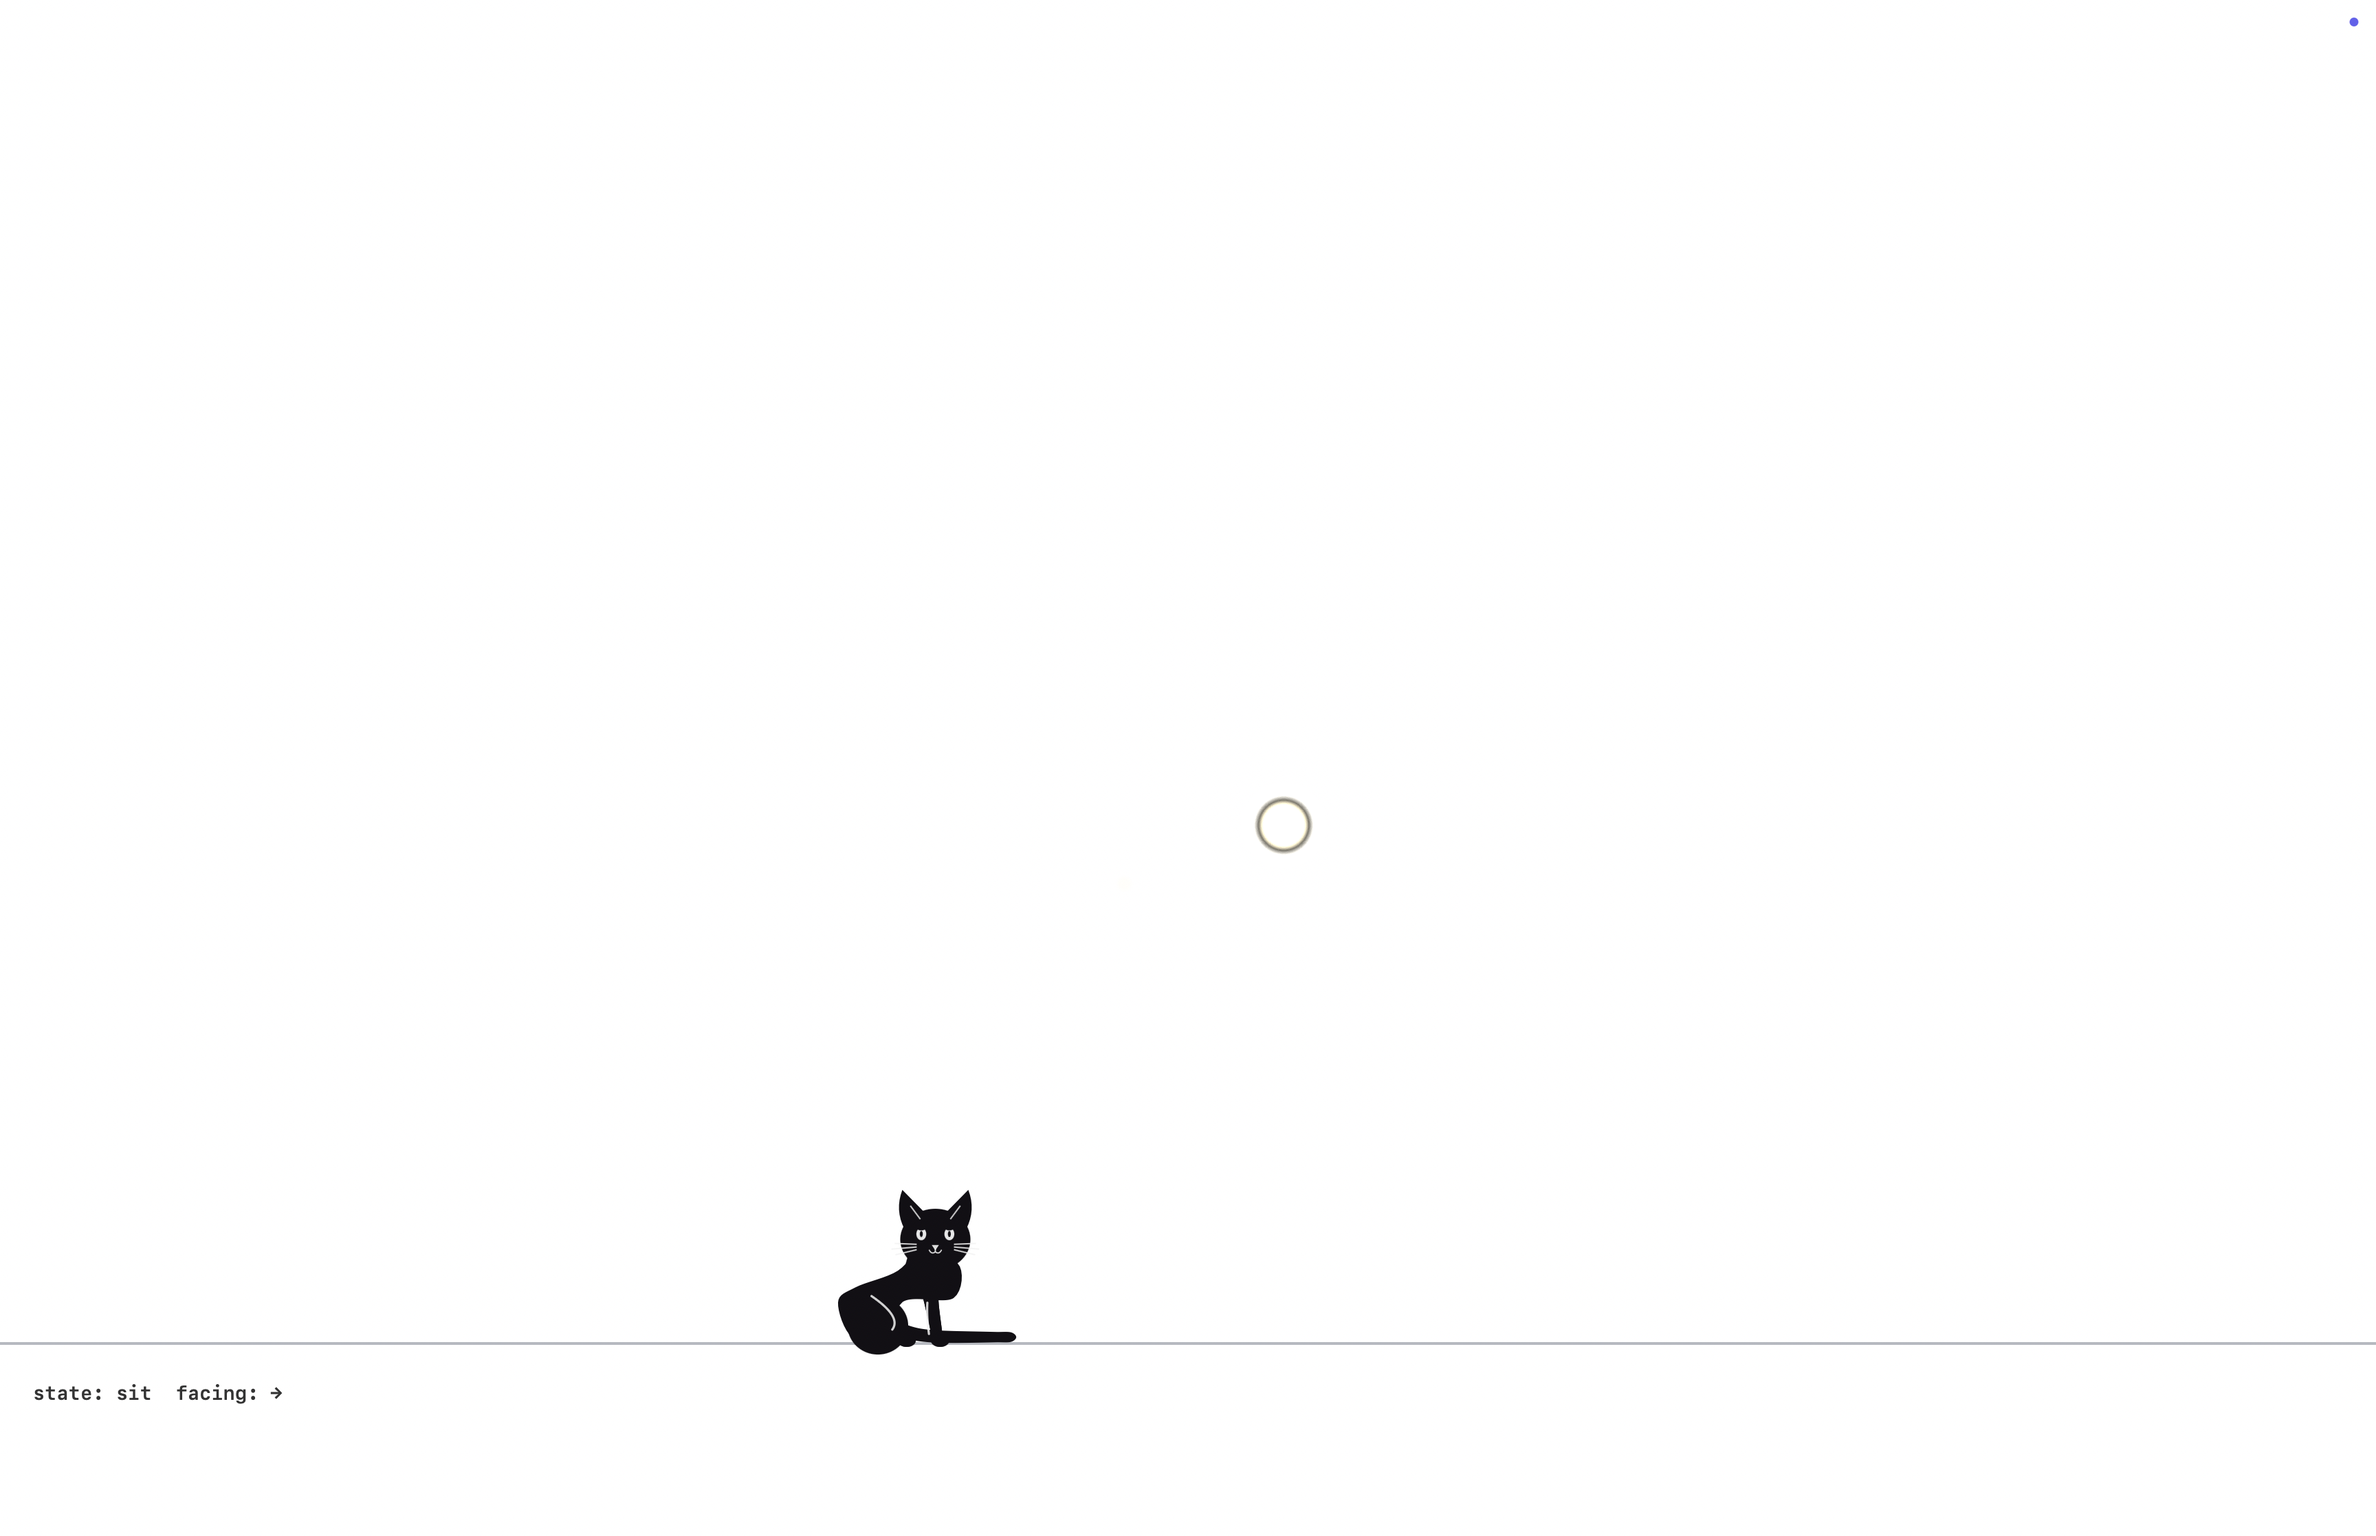
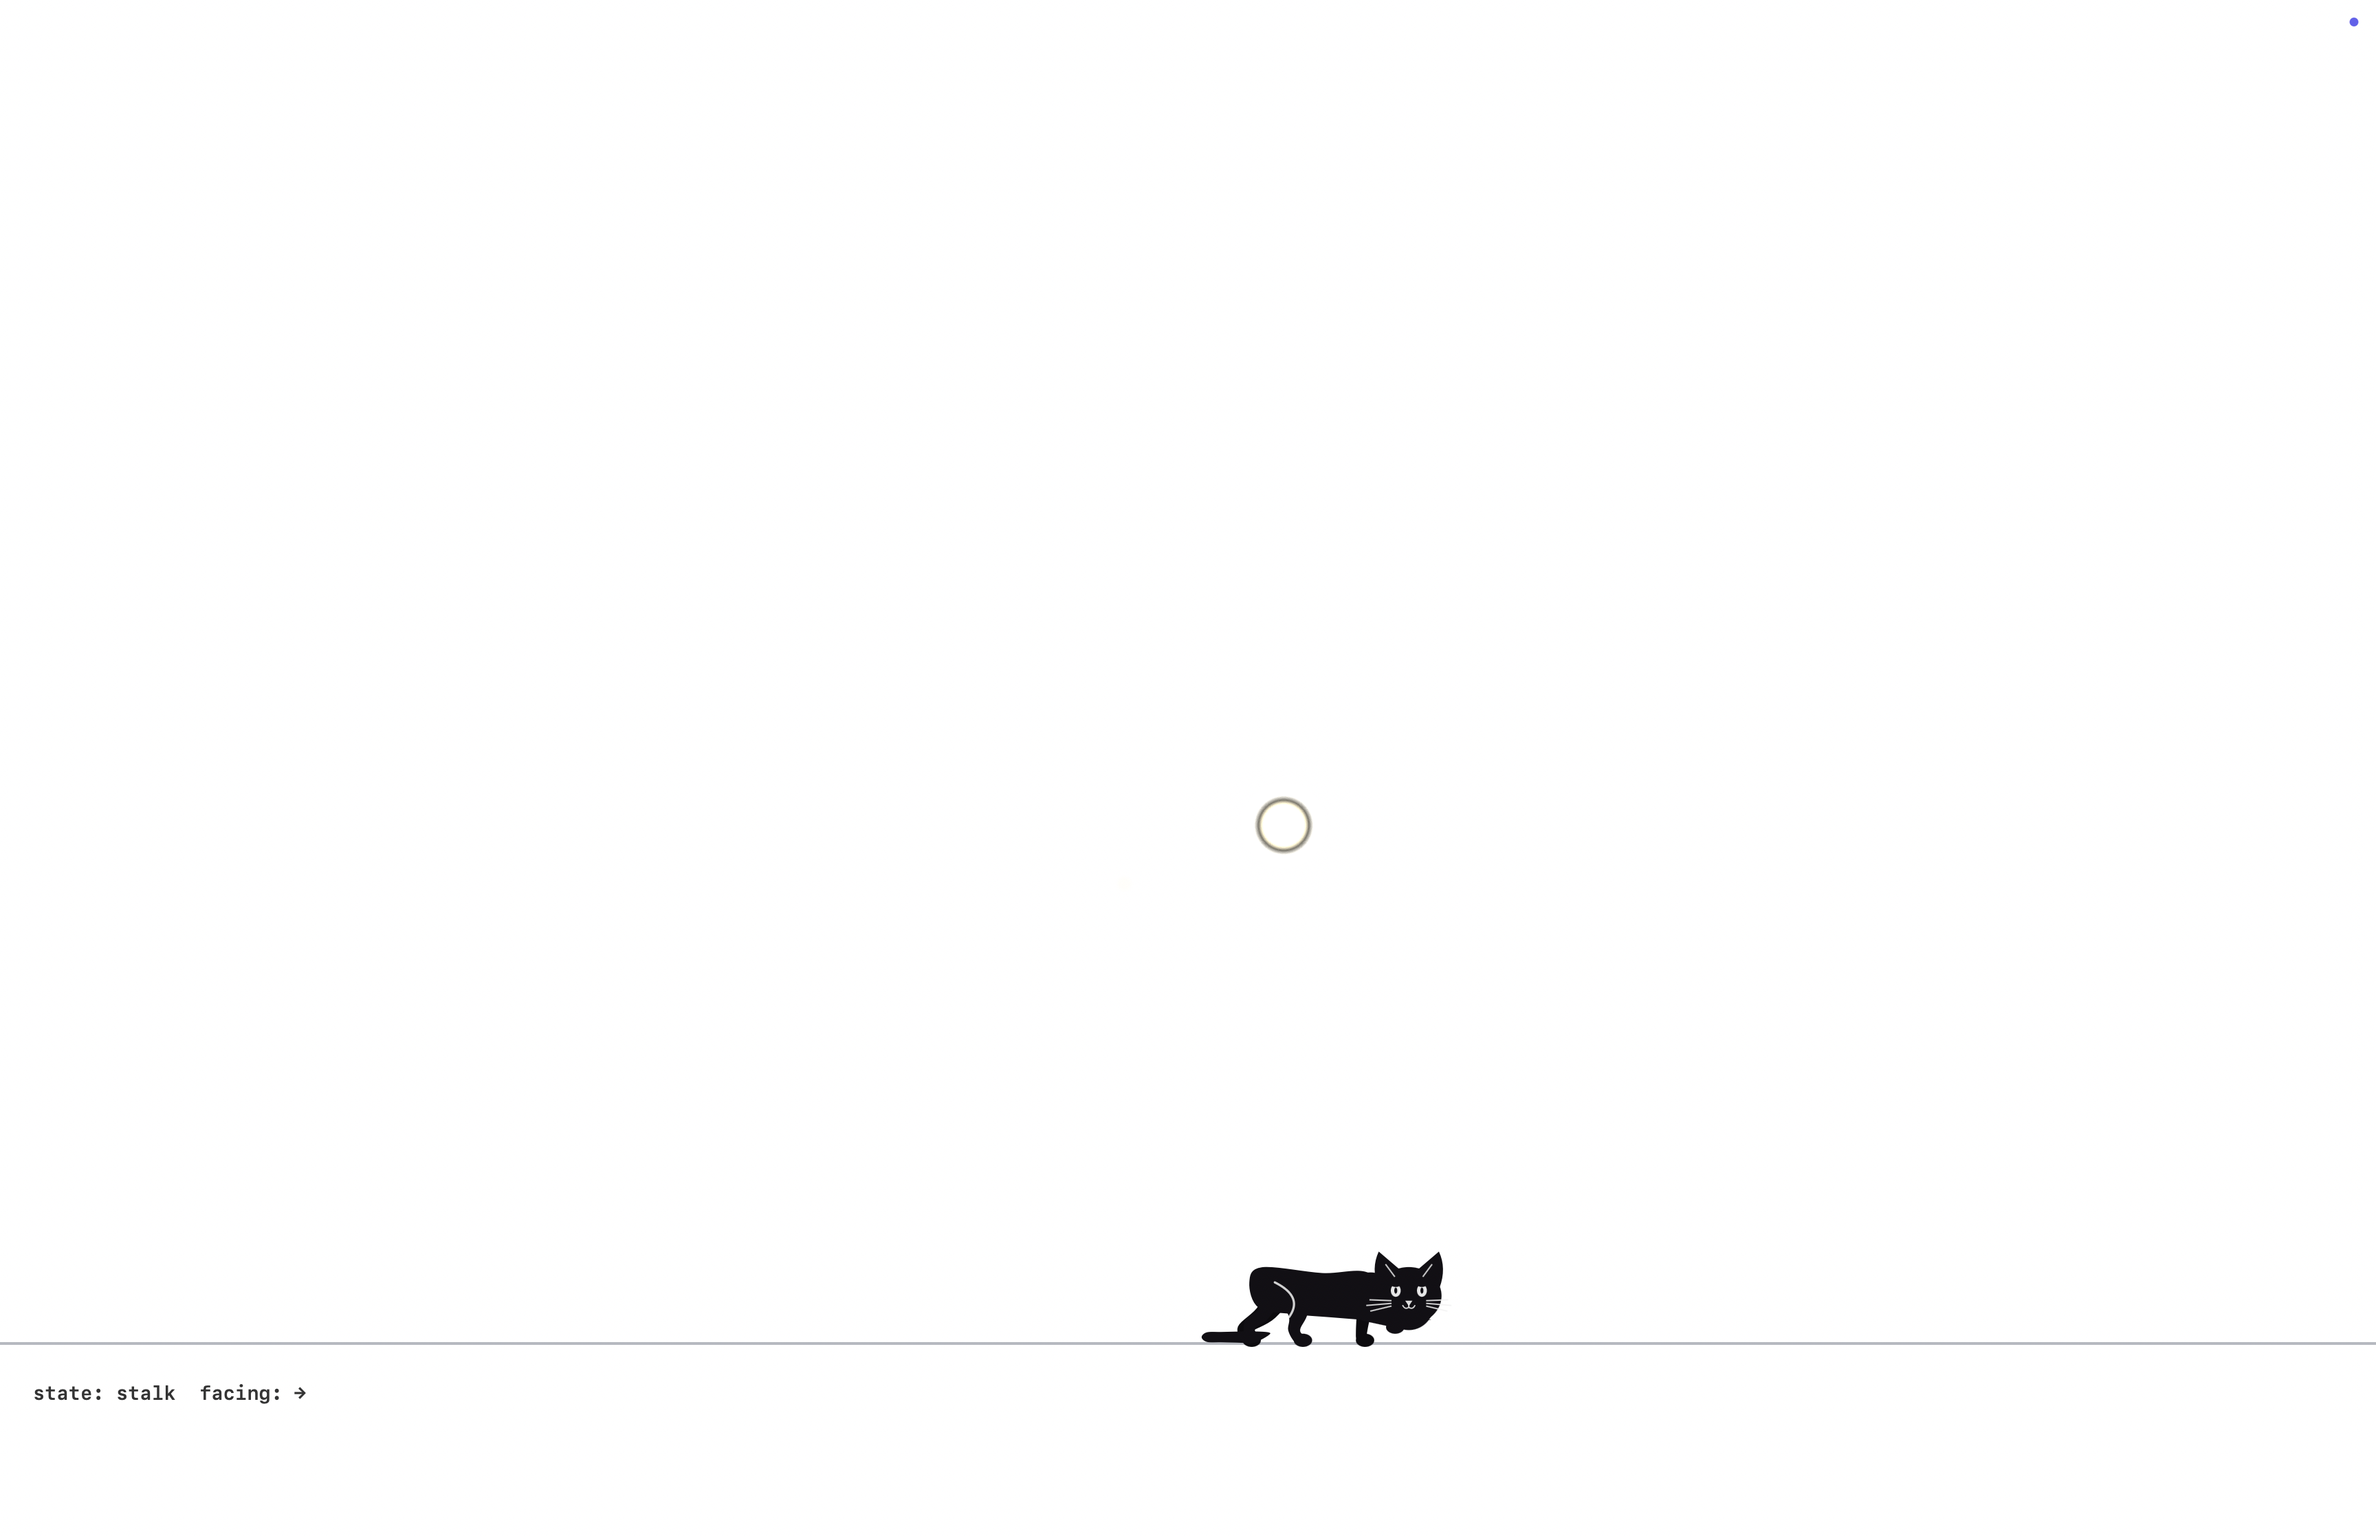
KiddyCat silhouette: reference head:body ratio, taller sit, softer ears
A/B-driven: skull reduced to reference ratio, body lengthened, sit
composition taller (higher chest and head), ears wider-based and shorter.
Verified across all three reference poses side-by-side: walk, sit, loaf.

Changed region(s): [[0.5, 0.803, 0.625, 0.8957], [0.3438, 0.7722, 0.4375, 0.8957], [0.0625, 0.8957, 0.125, 0.9266]]

diff --git a/Sources/kiddyproof/KiddyCat.swift b/Sources/kiddyproof/KiddyCat.swift
@@ -329,8 +329,8 @@ final class KiddyCat {
             // rounded behind, head high (groom: head dipped to the chest).
             p.sitFold = 1
             p.rumpHeight = 0.50
-            p.shoulderHeight = 1.0
-            p.headHeight = state == .groom ? 0.92 : 1.3
+            p.shoulderHeight = 1.06
+            p.headHeight = state == .groom ? 0.92 : 1.38
             p.headForward = state == .groom ? 0.42 : 0.5
             p.earPerk = state == .groom ? 0.45 : 0.8
         case .stretch:
@@ -545,7 +545,7 @@ final class KiddyCat {
         // Anchor geometry.
         let stretch = pose.bodyStretch
         let shoulderX: CGFloat = 0.52 + stretch * 0.25 - pose.sitFold * 0.3
-        let rumpX: CGFloat = -(0.70 + stretch * 0.2 - pose.sitFold * 0.10)
+        let rumpX: CGFloat = -(0.74 + stretch * 0.2 - pose.sitFold * 0.10)
         let shoulderY = pose.shoulderHeight
         let rumpY = pose.rumpHeight
         let headX = pose.headForward + stretch * 0.2
@@ -674,14 +674,14 @@ final class KiddyCat {
 
         // Head group: wide round skull with soft cheeks.
         let flick = earFlick * 0.06
-        let hw: CGFloat = 0.44, hh: CGFloat = 0.385  // skull radii
+        let hw: CGFloat = 0.41, hh: CGFloat = 0.36   // skull radii
         let headC = P(hcx, hcy)
         // Ears first (bases swallowed by the skull): symmetric, canted outward.
         func frontEar(_ side: CGFloat, cant: CGFloat) {
             let e = CGMutablePath()
-            let baseIn  = (hcx + side * hw * 0.22, hcy + hh * 0.78)
-            let baseOut = (hcx + side * hw * 0.88, hcy + hh * 0.34)
-            let tip     = (hcx + side * hw * (0.94 + cant), hcy + hh * (1.44 + pose.earPerk * 0.22))
+            let baseIn  = (hcx + side * hw * 0.16, hcy + hh * 0.80)
+            let baseOut = (hcx + side * hw * 0.94, hcy + hh * 0.28)
+            let tip     = (hcx + side * hw * (0.92 + cant), hcy + hh * (1.34 + pose.earPerk * 0.20))
             e.move(to: P(baseIn.0, baseIn.1))
             e.addLine(to: P(tip.0, tip.1))
             // Convex outer edge.
